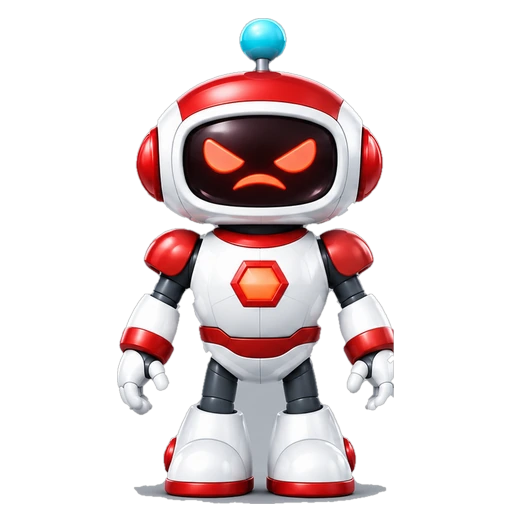
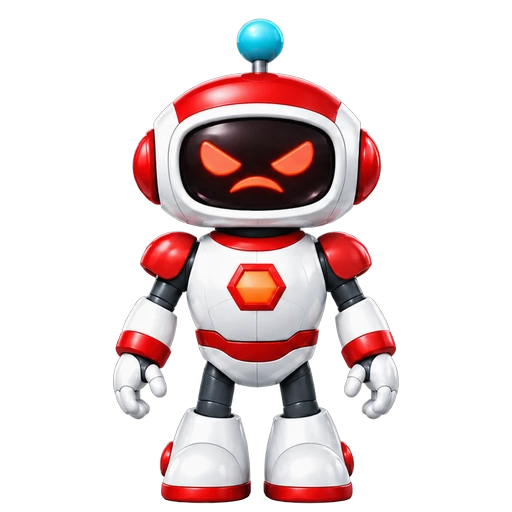
Bots: transparent-background art; head images for the VS screen
Rebuilt full/blank stills from transparent sheets (no grey between the legs) and
use the supplied head images as busts. Face screen rects updated.

Changed region(s): [[0.2188, 0.0312, 0.7812, 1.0]]

diff --git a/src/ui/boostie3d/botFace.js b/src/ui/boostie3d/botFace.js
@@ -9,9 +9,9 @@ const SVG_NS = 'http://www.w3.org/2000/svg';
 // Screen rectangle as fractions of the 512 px still [x0, y0, x1, y1] (printed by the build
 // script), the glow colour, and the face at rest — each bot keeps its personality.
 export const BOT_FACES = Object.freeze({
-  bot_easy:   { rect: [0.3049, 0.2782, 0.7084, 0.5346], color: '#b6f23a', rest: ['arc', 'grin'] },
-  bot_medium: { rect: [0.3341, 0.2437, 0.6720, 0.4537], color: '#ffd21f', rest: ['round', 'smallsmile'] },
-  bot_hard:   { rect: [0.3564, 0.2245, 0.6596, 0.4049], color: '#ff7a4d', rest: ['angry', 'frown'] },
+  bot_easy:   { rect: [0.3023, 0.2863, 0.7035, 0.5424], color: '#b6f23a', rest: ['arc', 'grin'] },
+  bot_medium: { rect: [0.3347, 0.2516, 0.6663, 0.4604], color: '#ffd21f', rest: ['round', 'smallsmile'] },
+  bot_hard:   { rect: [0.3493, 0.2281, 0.6542, 0.4120], color: '#ff7a4d', rest: ['angry', 'frown'] },
 });
 
 export const EXPRESSIONS = Object.freeze(['rest', 'blink', 'happy', 'laugh', 'wow', 'stare', 'yawn', 'wink']);

diff --git a/scripts/build-bot-stills.py b/scripts/build-bot-stills.py
@@ -1,8 +1,9 @@
-"""Bot stills from the ChatGPT turnaround sheets (Blender designs/boosties/sources/bot_<lvl>_sheet.png).
+"""Bot stills from the ChatGPT turnaround sheets with a transparent background
+(Blender designs/boosties/sources/bot_<lvl>_sheet.png, and bot_<lvl>_head.png for the VS screen).
 
-For each level, takes the front view (first of four panels), cuts it out of the grey backdrop and writes
-  assets/avatars/bots/bot_<lvl>_full.webp   the whole bot, painted face (VS screen, lists)
-  assets/avatars/bots/bot_<lvl>_bust.webp   head and chest crop of the same
+For each level, takes the front view (first of four panels), drops the stray specks around it and writes
+  assets/avatars/bots/bot_<lvl>_full.webp   the whole bot, painted face (lists)
+  assets/avatars/bots/bot_<lvl>_bust.webp   the head image, for the VS screen
   assets/avatars/bots/bot_<lvl>_blank.webp  the whole bot with the screen face removed: the game
                                             scoreboard draws live faces over it (botFace.js)
 and prints the screen rectangle (512-px canvas) for src/ui/boostie3d/botFace.js.
@@ -18,62 +19,19 @@ SRC = os.path.join(ROOT, 'Blender designs', 'boosties', 'sources')
 OUT = os.path.join(ROOT, 'assets', 'avatars', 'bots')
 CANVAS, FIT_H = 512, 486
 
-def cutout(rgb):
-    h, w = rgb.shape[:2]
-    blur = cv2.GaussianBlur(rgb, (0, 0), 0.8)
-    bg = np.zeros((h + 2, w + 2), np.uint8)
-    # The backdrop is a soft gradient: flood from many border seeds, each with a small fixed
-    # tolerance around its own colour, so the white plastic (a little brighter) is not reached.
-    flags = 4 | cv2.FLOODFILL_MASK_ONLY | cv2.FLOODFILL_FIXED_RANGE | (255 << 8)
-    seeds = [(x, 2) for x in range(2, w - 2, 30)] + [(x, h - 3) for x in range(2, w - 2, 30)]           + [(2, y) for y in range(2, h - 2, 30)] + [(w - 3, y) for y in range(2, h - 2, 30)]
-    for seed in seeds:
-        cv2.floodFill(blur.copy(), bg, seed, 0, (9,) * 3, (9,) * 3, flags)
-    fg = (bg[1:-1, 1:-1] == 0)
-    lab, n = ndi.label(fg)
-    if n > 1:   # keep every big piece (the head and body can be split at the neck), drop specks
-        sizes = ndi.sum(fg, lab, range(1, n + 1))
-        keep = [i + 1 for i, sz in enumerate(sizes) if sz > 0.05 * sizes.max()]
-        fg = np.isin(lab, keep)
-    # Two backdrop bits the border flood cannot reach, because the floor shadow (darker than the
-    # backdrop) walls them off: the shadow itself, and the gap between the legs. The shadow is the
-    # unsaturated mid-grey in the last rows under the soles; the gap is the same grey between the
-    # two coloured soles, from the hips down.
-    hsv = cv2.cvtColor(blur, cv2.COLOR_RGB2HSV)
-    greyish = (hsv[..., 1] < 34) & (hsv[..., 2] >= 105) & (hsv[..., 2] <= 206)
-    ys_ = np.where(fg.any(axis=1))[0]
-    top_, bot_ = ys_.min(), ys_.max()
-    floor = np.zeros_like(fg)
-    floor[int(top_ + 0.9 * (bot_ - top_)):] = True
-    fg &= ~(floor & greyish & (hsv[..., 2] <= 190))
-    bot_ = np.where(fg.any(axis=1))[0].max()
-    sole = (hsv[..., 1] > 90) & fg
-    cols = sole[bot_ - 22:bot_ - 4].any(axis=0)
-    runs, start = [], None
-    for x_, on in enumerate(np.append(cols, False)):
-        if on and start is None: start = x_
-        if not on and start is not None: runs.append((start, x_)); start = None
-    runs = sorted(sorted(runs, key=lambda r: r[1] - r[0])[-2:])
-    if len(runs) == 2:
-        gx0, gx1 = runs[0][1], runs[1][0]
-        # the gap starts at the top of the dark thigh joints (below the belly) and runs to the soles
-        dark_joint = (hsv[..., 2] < 105) & (hsv[..., 1] < 70) & fg
-        rows = np.where(dark_joint[int(top_ + 0.5 * (bot_ - top_)):].sum(axis=1) > 6)[0]
-        gy0 = int(top_ + 0.5 * (bot_ - top_)) + (rows.min() if len(rows) else int(0.2 * (bot_ - top_)))
-        gy0 += int(0.03 * (bot_ - top_))
-        pale = (hsv[..., 1] < 28) & (hsv[..., 2] >= 105) & (hsv[..., 2] <= 226)   # backdrop, lit by the boots
-        box = np.zeros_like(fg)
-        box[gy0:bot_ + 1, gx0:gx1] = True
-        fg &= ~ndi.binary_dilation(box & pale, iterations=1)
-    fg = ndi.binary_closing(fg, iterations=2)
-    # fill only small pinholes; a big enclosed hole is backdrop, not part of the bot
-    holes = ndi.binary_fill_holes(fg) & ~fg
-    hl, hn = ndi.label(holes)
-    for i in range(1, hn + 1):
-        if (hl == i).sum() < 150:
-            fg |= hl == i
-    fg = ndi.binary_erosion(fg, iterations=1)
-    a = cv2.GaussianBlur(fg.astype(np.float32), (0, 0), 0.9)
-    return np.clip(a * 255, 0, 255).astype(np.uint8), fg
+def clean_alpha(alpha, panel_w):
+    """Keep the figure of the first panel: big pieces only (the sheet has fringe specks)."""
+    solid = alpha > 40
+    lab, n = ndi.label(solid)
+    keep = []
+    for i in range(1, n + 1):
+        ys, xs = np.where(lab == i)
+        if len(ys) > 400 and xs.mean() < panel_w * 1.02:
+            keep.append(i)
+    mask = np.isin(lab, keep)
+    mask = ndi.binary_fill_holes(mask) | mask
+    soft = ndi.binary_dilation(mask, iterations=2)       # keep the anti-aliased edge
+    return np.where(soft, alpha, 0).astype(np.uint8), mask
 
 def screen_of(rgb, fg):
     """The dark head screen: dark pixels in the upper part, holes filled (the face glyphs)."""
@@ -85,25 +43,22 @@ def screen_of(rgb, fg):
     lab, n = ndi.label(dark)
     sizes = ndi.sum(dark, lab, range(1, n + 1))
     comp = lab == (1 + int(np.argmax(sizes)))
-    # a face glyph touching the edge of the dark area would not be a hole: close it
-    comp = ndi.binary_closing(comp, iterations=6)
+    comp = ndi.binary_closing(comp, iterations=6)       # a glyph touching the edge is not a hole yet
     return ndi.binary_fill_holes(comp), dark
 
 for lvl in ('easy', 'medium', 'hard'):
-    sheet = np.array(Image.open(os.path.join(SRC, f'bot_{lvl}_sheet.png')).convert('RGB'))
+    sheet = np.array(Image.open(os.path.join(SRC, f'bot_{lvl}_sheet.png')).convert('RGBA'))
     pw = sheet.shape[1] // 4
-    rgb = sheet[:, :pw]
-    alpha, fg = cutout(rgb)
+    panel = sheet[:, :int(pw * 1.1)]
+    rgb = panel[..., :3].copy()
+    alpha, fg = clean_alpha(panel[..., 3], pw)
     scr, dark = screen_of(rgb, fg)
-    # blank the glyphs: inside the screen, anything that is not the dark glass becomes the glass colour
-    glass = np.median(rgb[dark & scr], axis=0)
-    blank = rgb.copy()
+    # blank the glyphs: anything in the glass that is brighter than the glass itself (and its glow)
     inner = ndi.binary_erosion(scr, iterations=3)
-    # glyphs = anything in the glass that is brighter than the glass itself (incl. glow halos)
     lum = rgb.astype(np.float32).mean(axis=2)
     glyph = inner & (lum > np.percentile(lum[inner], 55) + 18)
     glyph = ndi.binary_dilation(glyph, iterations=7) & inner
-    blank = cv2.inpaint(blank, (glyph * 255).astype(np.uint8), 9, cv2.INPAINT_TELEA)
+    blank = cv2.inpaint(rgb, (glyph * 255).astype(np.uint8), 9, cv2.INPAINT_TELEA)
     ys, xs = np.where(fg)
     y0, y1, x0, x1 = ys.min(), ys.max() + 1, xs.min(), xs.max() + 1
     scale = FIT_H / (y1 - y0)
@@ -119,14 +74,15 @@ for lvl in ('easy', 'medium', 'hard'):
     blankim, _, _ = place(blank)
     full.save(os.path.join(OUT, f'bot_{lvl}_full.webp'), quality=92, method=6)
     blankim.save(os.path.join(OUT, f'bot_{lvl}_blank.webp'), quality=92, method=6)
+    # VS-screen bust: the supplied head image, on a square canvas, bottom-aligned
+    head = Image.open(os.path.join(SRC, f'bot_{lvl}_head.png')).convert('RGBA')
+    bb = head.getchannel('A').point(lambda v: 255 if v > 40 else 0).getbbox()
+    head = head.crop(bb)
+    k = 248 / max(head.size)
+    head = head.resize((round(head.width * k), round(head.height * k)), Image.LANCZOS)
+    sq = Image.new('RGBA', (256, 256), (0, 0, 0, 0))
+    sq.paste(head, ((256 - head.width) // 2, 256 - head.height - 4), head)
+    sq.save(os.path.join(OUT, f'bot_{lvl}_bust.webp'), quality=92, method=6)
     sy, sx = np.where(scr)
     r = [(sx.min() - x0) * scale + ox, (sy.min() - y0) * scale + oy, (sx.max() + 1 - x0) * scale + ox, (sy.max() + 1 - y0) * scale + oy]
-    # bust: framed from the screen so all three bots read alike (the Hard bot's framing): from the
-    # top of the antenna to just under the chest-top, centred on the screen
-    top = oy
-    bottom = r[3] + 0.9 * (r[3] - r[1])
-    side = int(bottom - top)
-    cx = int((r[0] + r[2]) / 2)
-    crop = full.crop((cx - side // 2, top, cx - side // 2 + side, top + side)).resize((256, 256), Image.LANCZOS)
-    crop.save(os.path.join(OUT, f'bot_{lvl}_bust.webp'), quality=92, method=6)
-    print(lvl, json.dumps({'screen': [round(v / CANVAS, 4) for v in r], 'glass': [int(c) for c in glass]}))
+    print(lvl, json.dumps({'screen': [round(v / CANVAS, 4) for v in r]}))

diff --git a/docs-md/CHANGELOG.md b/docs-md/CHANGELOG.md
@@ -2,14 +2,15 @@
 
 ---
 
-## Bot busts framed alike (October 2026)
+## Bot art with transparent backgrounds (October 2026)
 
 - The VS screen cut the three bots at different heights. `build-bot-stills.py` now frames each
   bust from its screen (antenna top to 0.9 screen-heights under it, centred on the screen), the
   Hard bot's framing, so all three match.
-- Open: the grey backdrop between the bots' legs is still in the `_full` / `_blank` images (it is
-  walled off from the cutout by the floor shadow). Needs source art with a transparent background;
-  the script holds an unfinished attempt at removing it automatically.
+- The grey backdrop between the bots' legs is gone: the bots are now rebuilt from transparent-background
+  sheets (full bodies) and head images (the VS-screen busts) supplied as ChatGPT output, so the cutout
+  step and its backdrop heuristics were dropped from `build-bot-stills.py`. Face-screen rectangles in
+  `botFace.js` updated to the new art.
 
 ---
 
